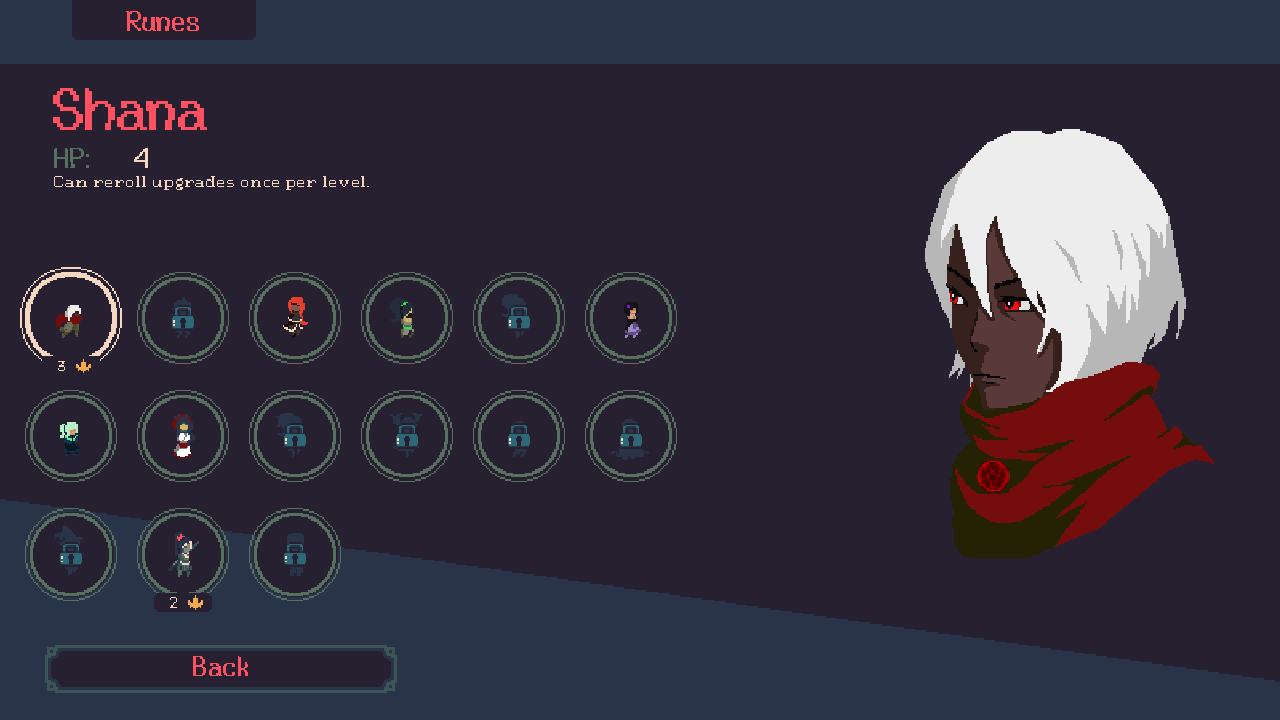
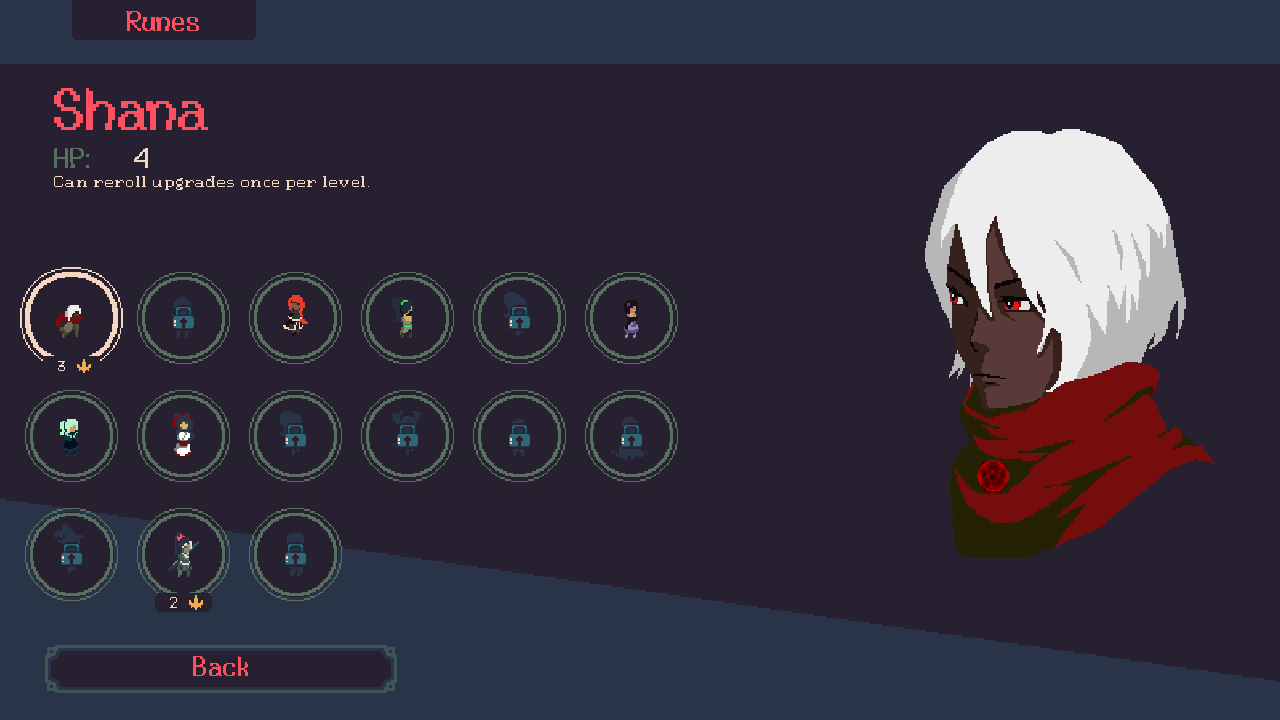
Verify native Runes header rendering for release

diff --git a/validation/RosterHeaderChecks.cs b/validation/RosterHeaderChecks.cs
@@ -31,6 +31,8 @@ public partial class RuntimeChecks
   var tab=(RectTransform)title.runesButton.transform.parent;var old=(RectTransform)badge.transform;
   CombatClose(tab.anchoredPosition.x+tab.rect.xMin,old.anchoredPosition.x+old.rect.xMin,"complete Runes tab aligns with the selector's original left header inset");
   Require(title.checkRunesPromptArrow.transform.IsChildOf(tab),"native rune prompt moves with the complete tab");
+  var label=title.runesButton.GetComponentInChildren<TMPro.TMP_Text>(true);var corners=new Vector3[4];label.rectTransform.GetWorldCorners(corners);
+  Log("header-render-state",title.CurrentState.GetType().Name+"/"+Screen.width+" root="+tab.anchoredPosition+" textColor="+label.color+" rendererColor="+label.canvasRenderer.GetColor()+" inheritedAlpha="+label.canvasRenderer.GetInheritedAlpha()+" cull="+label.canvasRenderer.cull+" corners="+string.Join(";",corners.Select(v=>v.ToString())));
  }
  IEnumerator CheckRosterHeader(TitleScreenController title,bool probe)
  {
@@ -66,10 +68,14 @@ public partial class RuntimeChecks
    while(!(title.CurrentState is RuneMenuGunState)||!title.runeConfirmButton.IsInteractable()||title.runeMenuPanel.GetComponent<CanvasGroup>().alpha<.999f)yield return null;
    yield return MenuPointer(title.runeConfirmButton);yield return HeaderReady(title,title.gunMenu);yield return SelectorPad(pad,GamepadButton.DpadUp);HeaderContract(title);
    {
-    foreach(var viewport in new[]{new Vector2Int(900,900),new Vector2Int(1024,768),new Vector2Int(1280,720)})
+    // Each aspect ratio starts a fresh native player at its actual resolution.
+    // Do not mix runtime resizing with batchmode's absent automatic camera render.
+    foreach(var viewport in new[]{new Vector2Int(Screen.width,Screen.height)})
     {
      yield return MenuMove(pad,title.gunMenu.GetComponentInParent<Canvas>().rootCanvas.transform,Entries(title.gunMenu)[0].button);
-     Screen.SetResolution(viewport.x,viewport.y,false);yield return WaitDisplay(viewport.x,viewport.y);yield return HeaderReady(title,title.gunMenu);HeaderContract(title);yield return Capture("weapon-header-"+viewport.x+".png");
+     yield return HeaderReady(title,title.gunMenu);
+     HeaderContract(title);
+     yield return Capture("weapon-header-"+viewport.x+".png");
      yield return PadClick(pad,title.characterMenu.GetComponentInParent<Canvas>().rootCanvas.transform,title.loadoutBackButton);yield return HeaderReady(title,title.characterMenu);HeaderContract(title);yield return Capture("character-header-"+viewport.x+".png");
      yield return PadClick(pad,title.characterMenu.GetComponentInParent<Canvas>().rootCanvas.transform,Entries(title.characterMenu)[0].button);yield return HeaderReady(title,title.gunMenu);
     }
@@ -79,6 +85,6 @@ public partial class RuntimeChecks
    yield return PadClick(pad,title.mainMenu.transform,Entries(title.mainMenu)[0].button);yield return HeaderReady(title,title.characterMenu);HeaderContract(title);
   }
   Require(PointsTracker.pts==credits&&Ownership()==ownership,"header correction and navigation preserve credits and all progression ownership");
-  SetPhase("PASS");Log("complete","Actual selection badge absent across character/weapon/rune menus, controller/pointer/re-entry and three viewports; wallet/progression unchanged");Application.Quit(0);
+  SetPhase("PASS");Log("complete","Actual selection badge absent across character/weapon/rune menus, controller/pointer/re-entry at "+Screen.width+"x"+Screen.height+"; wallet/progression unchanged");Application.Quit(0);
  }
 }

diff --git a/validation/RuntimeChecks.cs b/validation/RuntimeChecks.cs
@@ -592,9 +592,12 @@ public partial class RuntimeChecks:MonoBehaviour
             for(int i=0;i<cameras.Length;i++){cameras[i].targetTexture=rt;cameras[i].rect=new Rect(0,0,1,1);cameras[i].orthographicSize=previousOrtho[i];Log("offscreen-camera",cameras[i].name+" layers="+cameras[i].cullingMask);}
             camera.targetTexture=rt;
             for(int i=0;i<overlays.Length;i++){overlays[i].renderMode=RenderMode.ScreenSpaceCamera;overlays[i].worldCamera=camera;overlays[i].planeDistance=camera.nearClipPlane+.1f;}
+            // Static header/footer graphics otherwise retain their previous
+            // canvas mesh when batch capture changes the camera target/projection.
+            foreach(var graphic in Object.FindObjectsOfType<Graphic>())graphic.SetAllDirty();
             Canvas.ForceUpdateCanvases();
             foreach(var c in cameras)c.Render();
-            camera.Render();
+            if(overlays.Length>0)camera.Render();
             RenderTexture.active=rt;var t=new Texture2D(width,height,TextureFormat.RGB24,false);t.ReadPixels(new Rect(0,0,width,height),0,0);t.Apply();
             File.WriteAllBytes(Path.Combine(ResultDir,file),t.EncodeToPNG());Object.Destroy(t);
             Log("offscreen-capture",file);

diff --git a/docs/PROGRESS.md b/docs/PROGRESS.md
@@ -4,10 +4,10 @@
 
 | Stage | Status | Acceptance satisfied | Remaining / blockers / deferrals |
 |---|---|---|---|
-| R1 Shared selection header | COMPLETE | Native10 verifies full badge removal, left-aligned tab/background/prompt through native transitions, character/weapon/rune routes, controller/pointer/Back/title re-entry, all three viewports and unchanged credits/progression. | None. |
+| R1 Shared selection header | COMPLETE | Native17 verifies badge removal, left-aligned tab/background/prompt and controller/pointer/Back/title re-entry. Inspected square/4:3 renders from native14 use the same production DLL; corrected widescreen captures pass native17. Credits/progression are unchanged. | None. |
 | R2 Final delivery | ACTIVE | Target1.3.2; updater0.2.0/epoch1 retained. | Exact package/UI/controller/rune checks, copied install/rollback, public download and reviewed cleanup remain. Internal acceptance work; no external blocker or deferral. |
 
-[Authoritative requirements](RUNES.md#selection-header-correction--2026-10-29). Native1 identifies the purchase-era `PointsDisplay` in the shared selector. Native2 reproduces the missing-removal failure; native3 exposed the wrong Panel-class hook, which was replaced with the actual `UIExtensions.Panel` owner. Probe7 identifies the tab's native cached transition position. Earlier diagnostic fixtures were corrected for animation readiness, composed navigation scope and first controller recovery input. Native10 completes the required round trip, six captures and title re-entry; a redundant second mixed-input cycle from diagnostic9 is not claimed as verified. No gameplay workaround was added.
+[Authoritative requirements](RUNES.md#selection-header-correction--2026-10-29). Native1 identifies the purchase-era `PointsDisplay`; native2 reproduces its unwanted visibility. Native3 identifies the actual `UIExtensions.Panel` owner and probe7 the tab's cached transition position. Earlier fixtures were corrected for animation readiness, composed navigation and first controller recovery input. Diagnostics11–16 showed that static header/footer meshes could be omitted by the explicit batch capture, despite correct native alpha, bounds and navigation. Native17 rebuilds graphics before rendering and visibly verifies both widescreen selectors. The previously inspected square/4:3 images from native14 use the identical production DLL. Final packaged checks launch each viewport in a fresh process. The redundant second mixed-input cycle from diagnostic9 is not claimed. No gameplay workaround was added.
 
 R1-acceptance.json is retained under `D:/Projects/20MTD-Modernization-evidence/roster-header-20261029`. The existing native panel/group owns the correction; no new canvas, input system or update loop is needed. Only selection presentation changes; live Steam/profile/phone installations remain untouched. Disposable .NET/native output uses the registered `D:/Temp/20mtd-roster-header-20261029` I/O exception.
 

diff --git a/docs/RUNES.md b/docs/RUNES.md
@@ -11,8 +11,8 @@ Authoritative follow-up for the obsolete currency counter still visible in chara
 
 | Stage | Status | Acceptance |
 |---|---|---|
-| R1 Shared selection header | COMPLETE | R01–R02,R04 and source UI checks in R03 pass native10: complete badge absent, tab/prompt/background left-aligned through native animation, both rune entry points, controller/pointer/Back/main-menu re-entry, three viewports and unchanged credits/progression. R1-acceptance.json binds inputs. No blocker or deferral. |
-| R2 Final delivery | ACTIVE | R03: exact package/native UI, install/rollback, publication/download and cleanup. No external blocker or deferral. |
+| R1 Shared selection header | COMPLETE | Native17 verifies badge removal, left-aligned native tab and controller/pointer/rune/title re-entry. Inspected square/4:3 images from native14 use the identical production DLL; corrected widescreen character/weapon renders pass native17. The capture helper rebuilds static graphic meshes before explicit batch rendering. Credits and ownership remain unchanged. No blocker or deferral. |
+| R2 Final delivery | ACTIVE | Target1.3.2; updater0.2.0/epoch1 retained. Exact packaged native checks at three fresh-process viewports, controller/runes, install/rollback, publication/download and reviewed cleanup remain. No external blocker or deferral. |
 
 Storage: `D:/Temp/20mtd-roster-header-20261029` is the registered .NET/native small-file I/O exception. Current required evidence/deliverables belong in `D:/Projects/20MTD-Modernization-evidence/roster-header-20261029`. Existing shared native inputs stay in place. No tracked deferrals.
 
